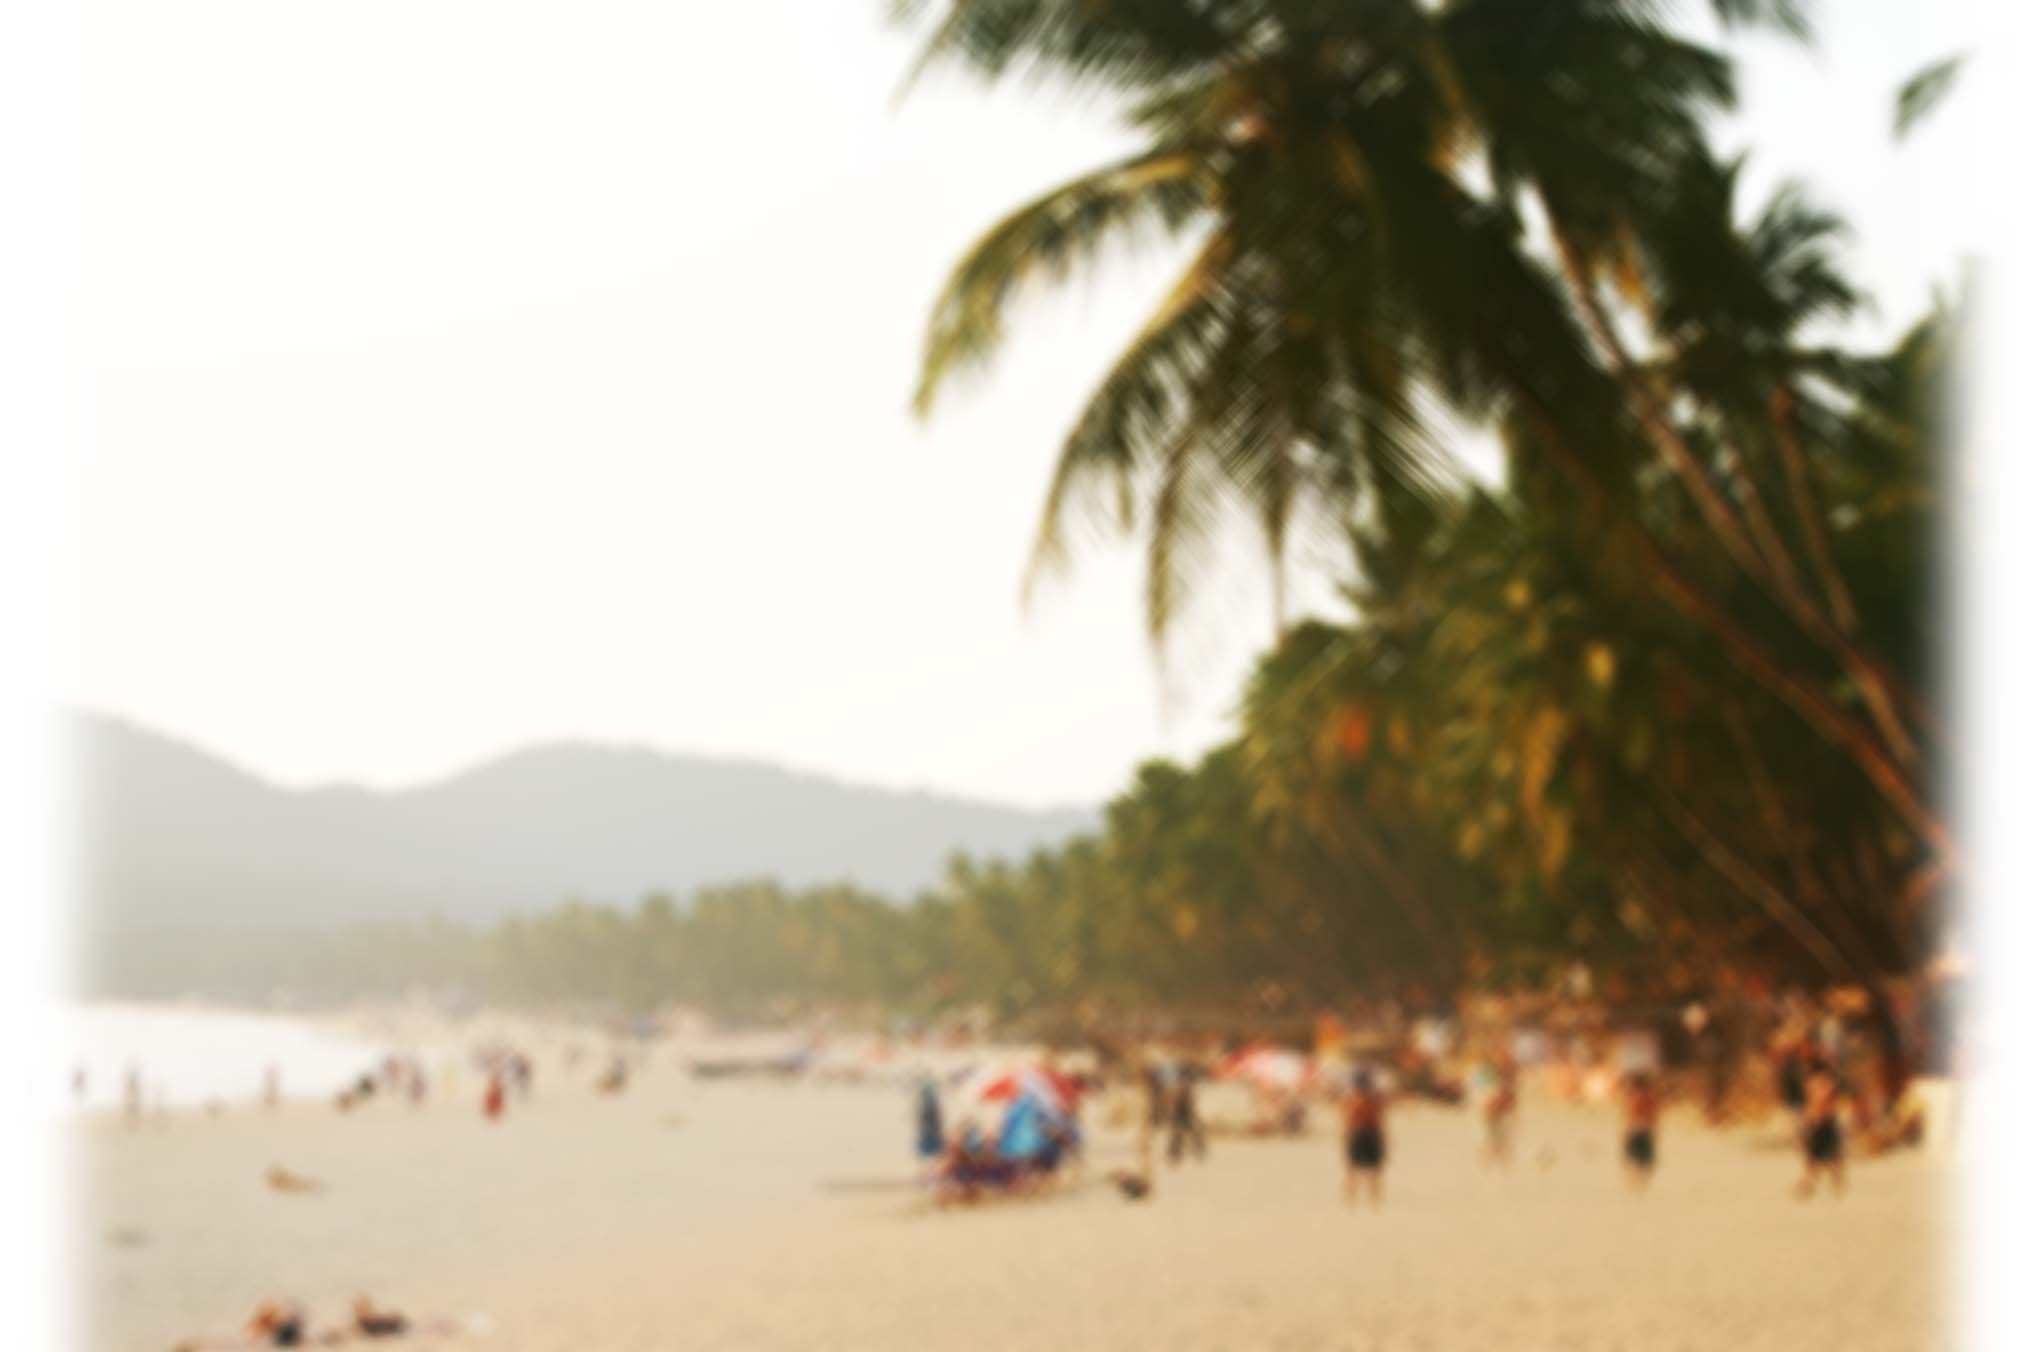
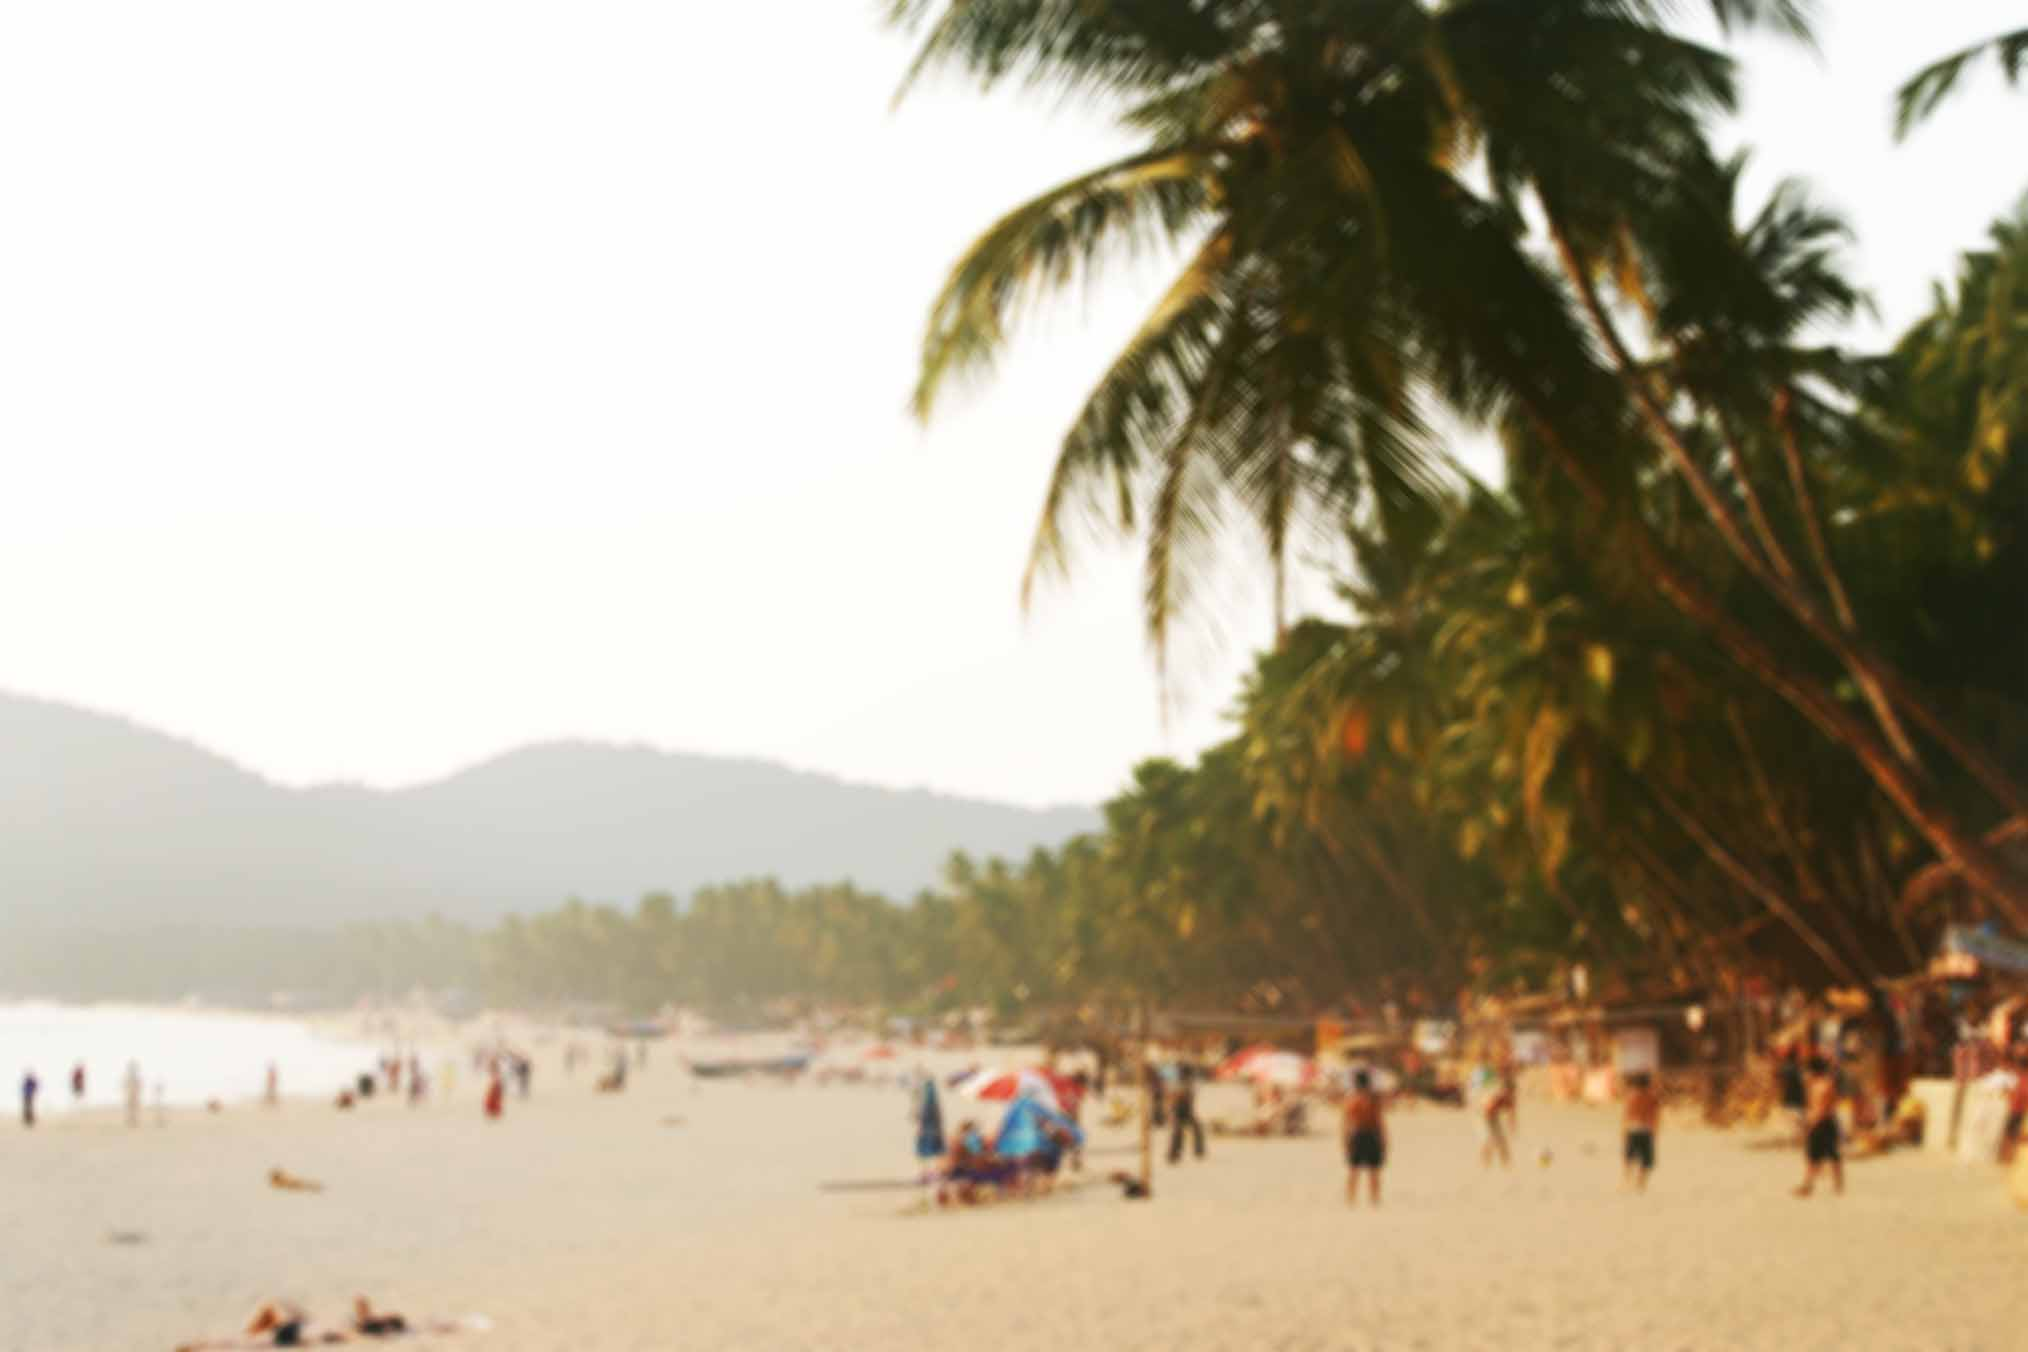
Modified design of About Goa section on main page

diff --git a/public/stylesheets/style.less b/public/stylesheets/style.less
@@ -296,6 +296,7 @@ section.main {
 	background-position: center 0;
 	background-repeat: no-repeat;
 	background-image: url("../images/pittsburgh.jpg");
+	background-size: cover;
 	text-align: center;
 	color: #fff;
 	text-shadow: 0 0 5px #000;
@@ -385,7 +386,6 @@ section.main {
 	@media screen and (max-width: 680px) {
 		height: 550px;
 		min-height: 0;
-		background-size: 1150px 600px;
 		background-attachment: scroll;
 		.event {
 			margin: 0;
@@ -500,165 +500,125 @@ section.where {
 	}
 }
 
-section.blurred {
-	background-repeat: no-repeat;
-	background-position: center bottom;
-	box-shadow: 0 0 5px #000;
-	border-bottom: 4px solid;
-	padding: 50px 0;
-	z-index: 1;
-	color: #000;
-	h1 {
-		padding-bottom: 0;
-	}
-	.bigbox {
-		width: 600px;
-		margin: auto;
-		border-radius: 10px;
-		border: 5px solid;
-	}
-	.description {
-		padding: 15px 30px;
-		font-size: 150%;
-		line-height: 1.5;
-		font-weight: 300;
-		width: 540px;
-		margin: auto;
-		strong {
-			font-weight: 600;
-		}
-	}
-	.worldmap {
-		width: 600px;
-		margin: auto;
-		display: block;
-	}
-	&.mobile {
-		background-image: none;
-		padding: 0;
-		.bigbox {
-			border: none;
-		}
-	}
-	@media screen and (max-width: 700px) {
-		padding: 30px 0;
-	}
-	@media screen and (max-width: 680px) {
-		padding: 0;
-		.bigbox {
-			border: none;
-		}
-	}
-	@media screen and (max-width: 600px) {
-		.bigbox {
-			width: auto;
-		}
-		.description {
-			width: 390px;
-			font-size: 120%;
-			padding: 10px 20px;
-		}
-		.worldmap {
-			width: 450px;
-		}
-	}
-	@media screen and (max-width: 450px) {
-		.description {
-			width: 340px;
-			padding: 10px;
-		}
-		.worldmap {
-			width: 300px;
-		}
-	}
-	@media screen and (max-width: 360px) {
-		.description {
-			width: 290px;
-		}
-	}
-
-	.setPicture(@color, @img, @bgcolor) {
-		background-color: @bgcolor;
-		background-image: url(@img);
-		border-color: darken(@color, 20%);
-		@media screen and (max-width: 680px) {
-			background-image: none;
-			background-color: @color;
-		}
-		&.mobile {
-			background-image: none;
-			background-color: @color;
-		}
-		.bigbox {
-			background-color: @color;
-			border-color: darken(@color, 20%);
-		}
-	}
-
-	&.goa {
-		.setPicture(#E9CEB9, "../images/goa_blurred.jpg", #FFF);
-	}
-}
 
 section.pic {
-	height: 90%;
-	min-height: 400px;
+	height: 60%;
 	background-position: bottom center;
 	background-repeat: no-repeat;
+	background-size: cover;
+	text-align: center;
+	padding: 50px 0;
+	.container {
+		border-color: inherit;
+	}
+	h1 {
+		font-size: 350%;
+		margin: 0 auto;
+		padding: 0;
+		line-height: 100px;
+		height: 100px;
+		&:before, &:after {
+			margin: 13px 30px;
+			height: 10px;
+		}
+	}
+	.bigbox {
+		width: 400px;
+		border-radius: 10px;
+		border: 5px solid;
+		border-color: inherit;
+		background-color: #fff;
+		position: absolute;
+		display: inline-block;
+		top: 30px;
+		img {
+			width: 100%;
+		}
+		&.left {
+			left: 30px;
+		}
+		&.right {
+			right: 30px;
+		}
+		&.center {
+			position: static;
+			width: 500px;
+			float: none;
+			.description {
+				font-size: 140%;
+
+			}
+		}
+		.description {
+			padding: 15px 30px;
+			font-size: 120%;
+			line-height: 1.5;
+			font-weight: 300;
+			margin: auto;
+			strong {
+				font-weight: 600;
+			}
+		}
+	}
 	.caption {
 		position: absolute;
 		bottom: 20px;
-		left: 50%;
-		width: 130px;
-		margin-left: -300px;
+		left: 20px;
+
+		height: 16px;
+		line-height: 16px;
 		display: inline-block;
-		padding: 5px;
+		padding: 5px 10px;
 		text-align: center;
 		background-color: #000;
 		color: #fff;
 		font-weight: 300;
-		font-size: 90%;
+		font-size: 100%;
 		opacity: 0.8;
-		border-radius: 5px;
+		border-radius: 8px;
+		text-decoration: none;
+		i.fa {
+			padding-right: 7px;
+		}
+		&:hover, &:focus {
+			background-color: #555;
+		}
 	}
 	&.mobile {
 		background-attachment: scroll;
+	}
+	&.autoheight {
+		height: auto;
+		min-height: 0;
+	}
+	&.parallax {
+		background-attachment: scroll;
+		background-position: center 400px;
+		background-size: auto;
 	}
 	@media screen and (max-width: 680px) {
 		height: 400px;
 		min-height: 0;
 		background-attachment: scroll;
-		.caption {
-			margin-left: -250px;
-		}
-	}
-	@media screen and (max-width: 600px) {
-		.caption {
-			margin-left: -200px;
-		}
 	}
 	@media screen and (max-width: 450px) {
 		height: 300px;
-		.caption {
-			margin-left: -150px;
-			bottom: 10px;
-		}
-	}
-
-	.setPicture(@img, @bgcolor, @width, @height) {
-		max-height: @height;
-		background-color: @bgcolor;
-		background-image: url(@img);
-		@media screen and (max-width: 680px) {
-			background-size: (@width / 2) (@height / 2);
-		}
-		@media screen and (max-width: 450px) {
-			background-size: (@width / 3) (@height / 3);
-		}
 	}
 
 	&.goa {
-		.setPicture("../images/goa.jpg", #fff, 2028px, 1352px);
+		background-image: url("../images/goa.jpg");
+	}
+
+	&.goa-blurred {
+		background-image: url("../images/goa_blurred.jpg");
+		.bigbox {
+			border-color: darken(#E9CEB9, 10%);
+			background-color: lighten(#E9CEB9, 5%)
+		}
+	}
+
+	&.goa-title {
+		background-image: url("../images/goa_title.jpg");
 	}
 }
 
